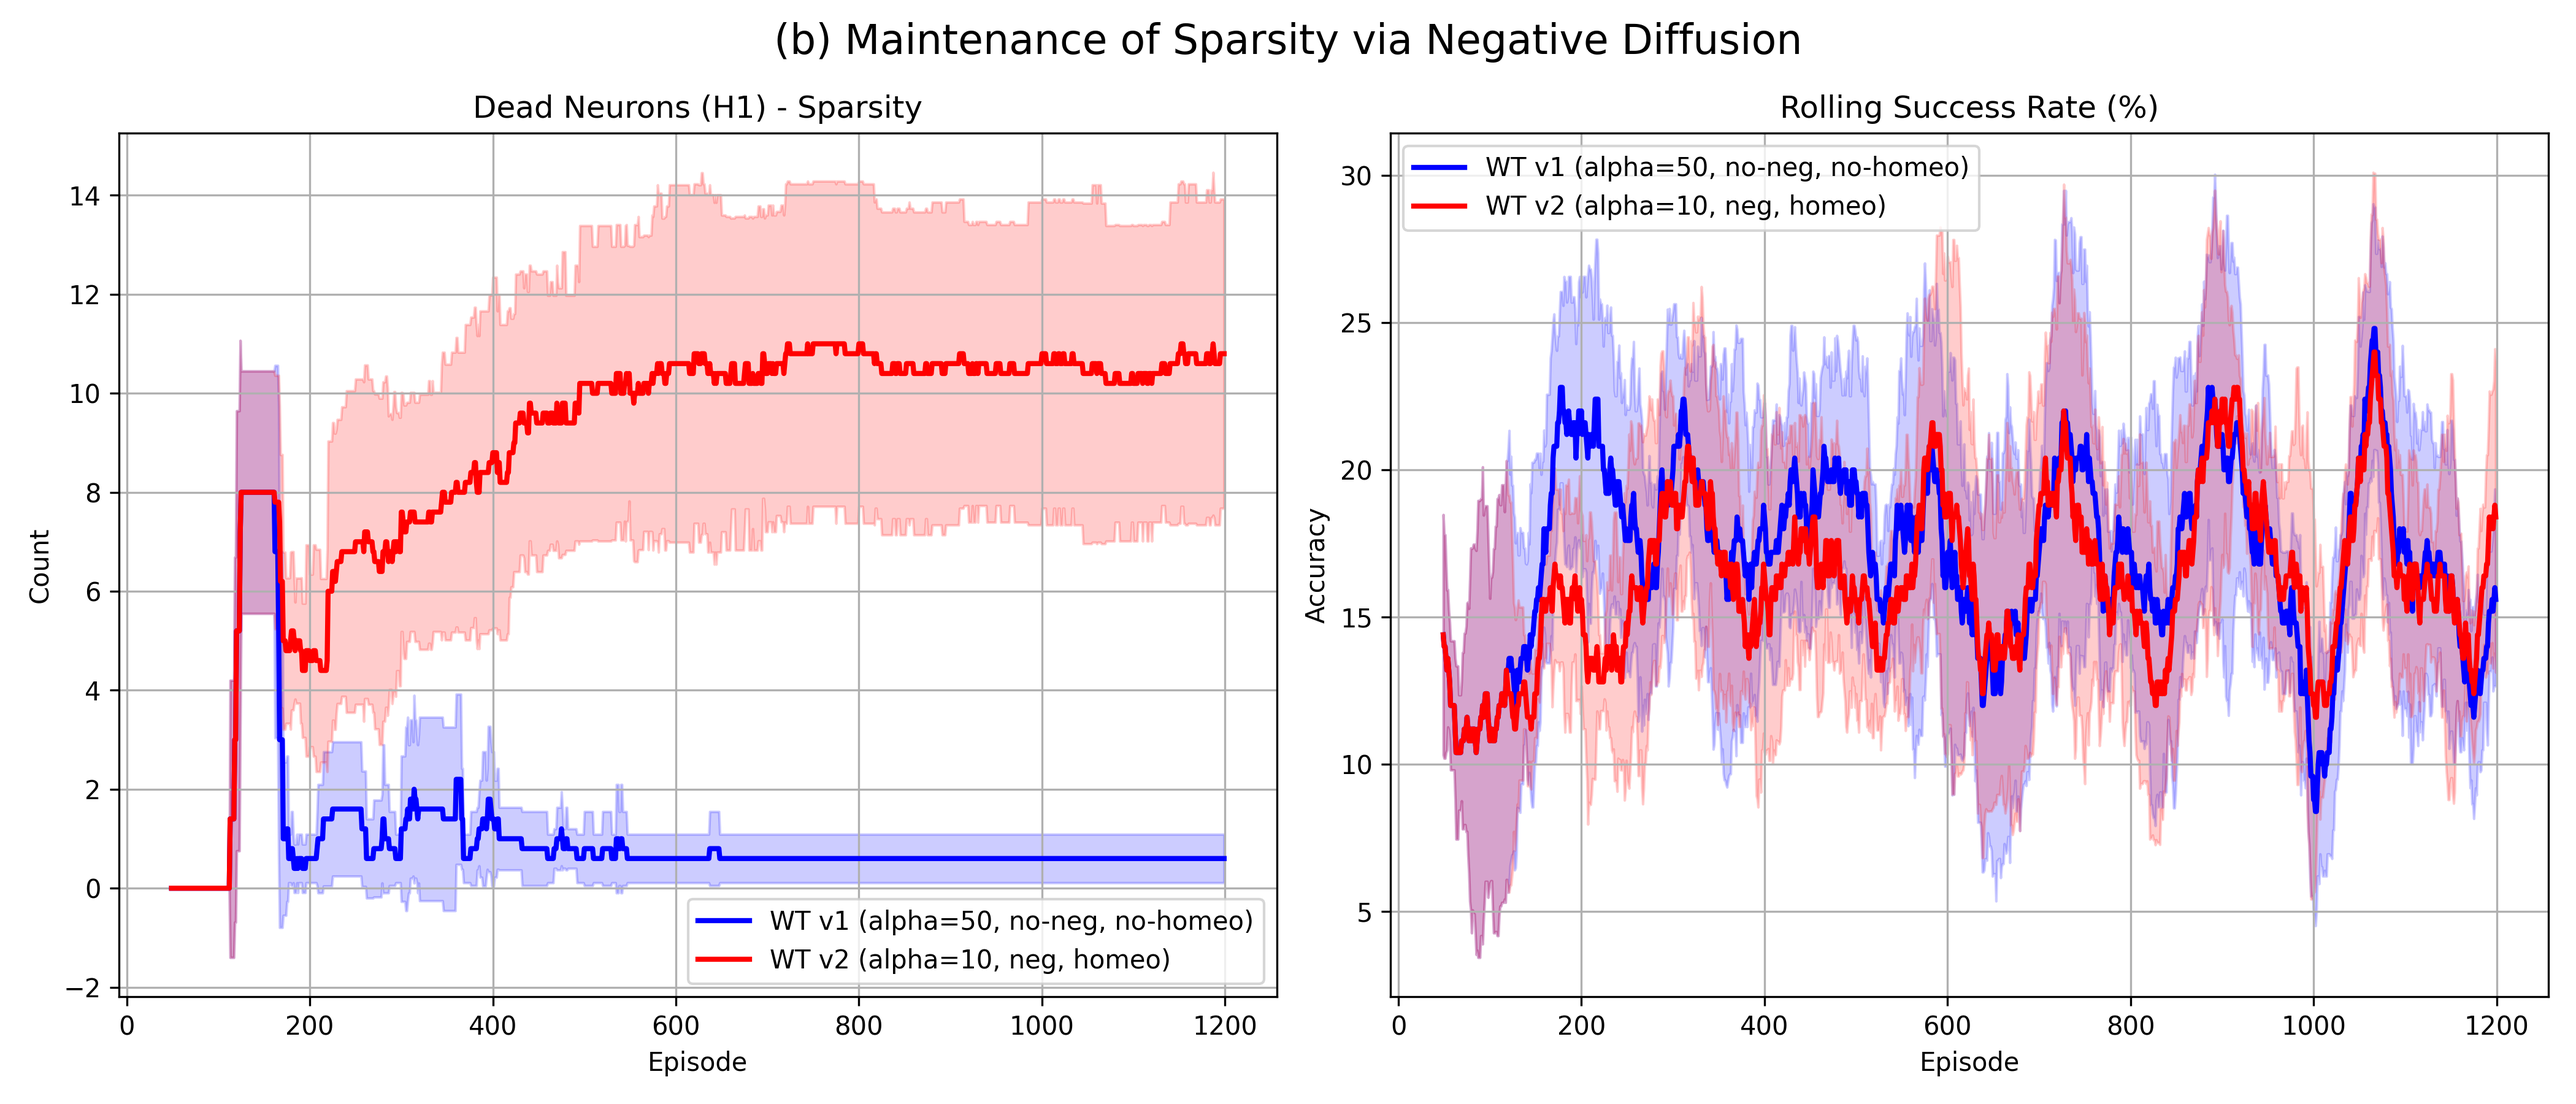
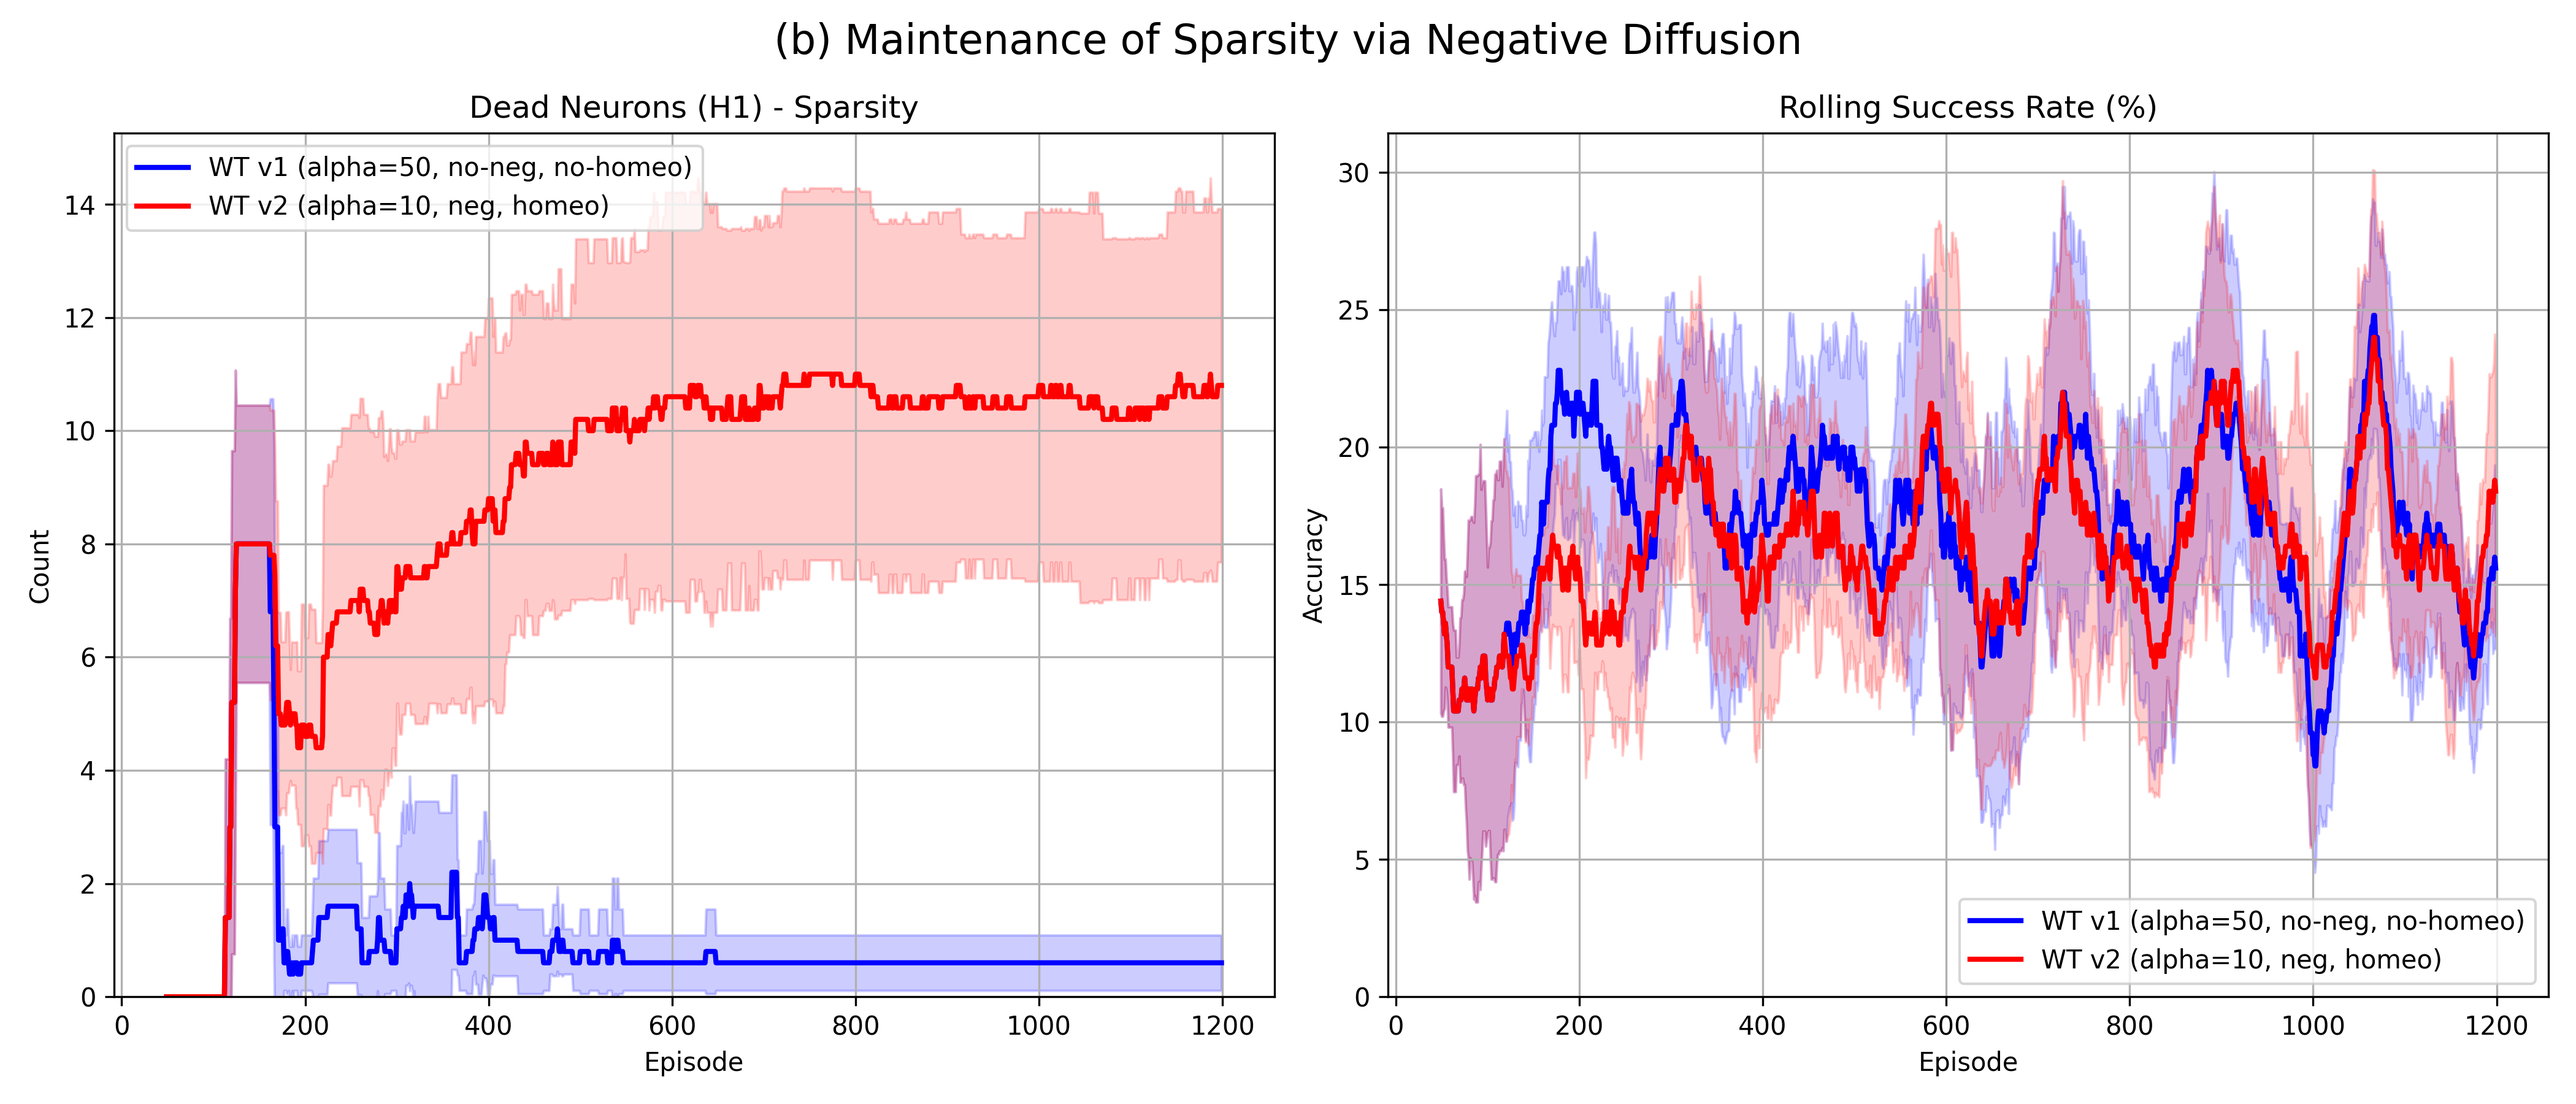
docs: fix scientific rigor, tone, figure 1 mismatch, figure 2 axes and refs

diff --git a/articles/main.tex b/articles/main.tex
@@ -88,7 +88,7 @@ $\text{Live}$ & 構造的な死を免れている（直近の平均発火率 $\g
 本研究では、このWT機構の進化として以下の2つのバージョンを比較定義する。
 \begin{itemize}
     \item \textbf{WT v1}: 負の重み波及をカットし、有効重みを $W_{ij}^{\text{eff}} = \max(0, W_{ij}^{rec})$ と定義する。また、恒常性スケーリングは行わず、適当な電位拡散（$\alpha=50.0$）によって物理的な復旧を行う。
-    \item \textbf{WT v2}: 再帰結合の負の重みをそのまま許容し、有効重みを $W_{ij}^{\text{eff}} = W_{ij}^{rec}$ として「ネガティブ拡散（抑制的波及）」を導入する。固有の抑制係数は持たず、負のシナプス荷重が直接抑制として働く。さらに、パラメータ選定の結果としてネガティブ拡散ありの場合の適切な拡散強度（$\alpha=10.0$）を設定し、無活動ニューロンに対する恒常性スケーリングを併用する。
+    \item \textbf{WT v2}: 再帰結合の負の重みをそのまま許容し、有効重みを $W_{ij}^{\text{eff}} = W_{ij}^{rec}$ として「ネガティブ拡散（抑制的波及）」を導入する。固有の抑制係数は持たず、負のシナプス荷重が直接抑制として働く。さらに、事前のグリッドサーチ結果に基づき、ネガティブ拡散を有効化した際に最も安定した学習を示す適切な拡散強度（$\alpha=10.0$）を設定し、無活動ニューロンに対する恒常性スケーリングを併用する。
 \end{itemize}
 
 WT v2における恒常性スケーリング（Homeostatic Scaling）は、閾値の低下や重みの底上げではなく、無活動ニューロン $i \in \text{Dead}$ に入力される外部電流 $I_{ext,i}$ に対して直接ゲイン $\gamma$ を掛ける「入力電流スケーリング」として実装されている。
@@ -128,23 +128,23 @@ WT v2 & $\alpha$ (Diffusion Strength) & 10.0 \\
 \end{tabular}
 \end{table}
 
-\section{Hypothesis Validation: 6-Arm Star Mazeを巡る旅}
+\section{Experiments and Results: 6-Arm Star Mazeにおける仮説検証}
 
-本研究では、ラットの空間記憶テストに用いられる古典的な「放射状迷路（Radial Arm Maze）」~\cite{olton1976spatial}を生物学的モチーフとした、6方向対称メイズ（6-Arm Star Maze / Hexable-Maze）環境において仮説検証を行う。深層学習モデルがこのような逐次的タスクにおいて深刻な破滅的忘却~\cite{mccloskey1989catastrophic}に直面するのに対し、生体の海馬メカニズムにヒントを得たWT機構が、生涯学習においてどのように構造的リソースを管理し、アトラクターの呪縛を回避するのかを評価する。
+本研究では、ラットの空間記憶テストに用いられる古典的な「放射状迷路（Radial Arm Maze）」~\cite{olton1976spatial}を生物学的モチーフとした、6方向対称メイズ（6-Arm Star Maze / Hexable-Maze）環境において仮説検証を行う。本タスクにおいて、エージェントは各ステップで環境内の空間座標情報を観測し、離散的な行動空間から行動を選択して移動する。あらかじめ設定されたゴール地点に到達すると正の報酬が与えられ、エピソードが終了する。深層学習モデルがこのような逐次的タスクにおいて深刻な破滅的忘却~\cite{mccloskey1989catastrophic}に直面するのに対し、生体の海馬メカニズムにヒントを得たWT機構が、生涯学習においてどのように構造的リソースを管理し、アトラクターの呪縛を回避するのかを評価する。
 
-\subsection{Stage 1: モノカルチャーの形成 (Phase 1-2)}
-エージェントを少数の特定のゴールにのみ執着させることで、意図的に「ニューロンリソースの死」を作り出した。図1に示す重みのヒートマップは、ネットワークが単一の経路に過剰適応し、他の可能性を司るニューロン群が完全に排除された「モノカルチャー」状態を示している。
+\subsection{Phase 1-2: モノカルチャーの形成}
+学習の初期段階（Phase 1/2）において、エージェントに対して全6方向のゴールのうち少数の特定のゴール（例えばゴール1および2）に到達した場合のみに報酬を与え、特定経路に集中的に学習させるプロトコルを採用した。これにより、意図的に「ニューロンリソースの無活動化（特定の役割を持たないニューロンの死）」を作り出した。図\ref{fig:fig1}に示す各ゴール条件における各ニューロンの発火率ヒートマップは、ネットワークが単一の経路に過剰適応し、他の可能性を司るニューロン群が完全に排除された「モノカルチャー」状態を示している。
 
 \begin{figure}[H]
     \centering
     \includegraphics[width=0.7\linewidth]{fig1}
-    \caption{Phase 1/2における重みの可視化。特定の経路への過剰な専門化が見られる。}
+    \caption{Phase 1/2における発火率の可視化。特定の経路への過剰な専門化が見られる。}
     \label{fig:fig1}
 \end{figure}
 
-\subsection{Stage 2: 構造的復旧のパラドックス (Baseline vs WT v1)}
-タスク環境が拡張されると、対照群（Baseline / WTなし）のネットワークは新しいタスクに対応するリソースを捻出できず、図2(a)の黒線が示すように破滅的忘却~\cite{mccloskey1989catastrophic}とニューロン資源の枯渇に陥った。
-これに対し、とにかく強力に電位を流し込んで死ニューロンを叩き起こす手法（WT v1）を適用したところ、青線が示すように無活動化していたニューロンをほぼ全数（0個まで）物理的に再活性化させることに成功した。
+\subsection{Phase 3: 構造的復旧のパラドックス (Baseline vs WT v1)}
+Phase 3において、報酬が配置されるゴール条件が全6方向に拡張されると、対照群（Baseline / WTなし）のネットワークは新しいタスクに対応するリソースを捻出できず、図\ref{fig:comparison_structural}(a)右の黒線が示すように破滅的忘却~\cite{mccloskey1989catastrophic}とニューロン資源の枯渇（図\ref{fig:comparison_structural}(a)左）に陥った。
+これに対し、過剰な電位エネルギーによって無活動ニューロンを強制的に再活性化させる手法（WT v1）を適用したところ、図\ref{fig:comparison_structural}(a)左の青線が示すように無活動ニューロンをほぼ全数（0個まで）物理的に再活性化させることに成功した。
 
 しかし、構造的な死（Dead Neurons）を完全にゼロにしたにもかかわらず、機能的パフォーマンス（正答率）は伸び悩みを見せた。WT v1は構造的復旧を達成した一方で、機能的再統合には失敗したのである。
 
@@ -154,14 +154,14 @@ WT v2 & $\alpha$ (Diffusion Strength) & 10.0 \\
     \vspace{0.3cm}
 
     \includegraphics[width=0.7\linewidth]{fig6}
-    \caption{上(a): Baseline(黒)における資源的枯渇とWT v1(青)による構造的完全復旧。下(b): WT v1(青)とWT v2(赤)によるスパース性維持と正答率の比較。}
+    \caption{上段(a): Baseline(黒)における資源的枯渇とWT v1(青)による構造的完全復旧（左: 無活動ニューロン数、右: 移動平均正答率）。下段(b): WT v1(青)とWT v2(赤)によるスパース性維持と正答率の比較（左: 無活動ニューロン数、右: 移動平均正答率）。}
     \label{fig:comparison_structural}
 \end{figure}
 
-\subsection{Stage 3: スパース性の維持と機能的等価性（WT v1 vs WT v2）}
-WT v1を用いた場合、初期タスクの学習で深く形成された「WTAアトラクター盆地」の引力により、全てのニューロンを均等に強制復活させてもネットワーク内に過剰なノイズが発生し、機能的パフォーマンスは伸び悩んだ。
+\subsection{Phase 3 (Cont.): スパース性の維持と機能的等価性（WT v1 vs WT v2）}
+WT v1を用いた場合、初期タスクの学習で深く形成された「WTAアトラクター盆地」の引力により、すべての無活動ニューロンを均等に強制復活させてもネットワーク内に過剰なノイズが発生し、機能的パフォーマンスは伸び悩んだ。
 
-そこで提案するWT v2では、再帰結合の負の重みを通じた「ネガティブ拡散」を許容し、局所的な抑制波及を取り入れた。その結果、図2(b)の赤線が示すように、あえて一部のニューロン（H1層において10〜15個程度）を死なせたまま「スパース性」を維持することが可能となった。
+そこで提案するWT v2では、再帰結合の負の重みを通じた「ネガティブ拡散」を許容し、局所的な抑制波及を取り入れた。その結果、図\ref{fig:comparison_structural}(b)左の赤線が示すように、あえて一部のニューロン（H1層において10〜15個程度）を無活動状態にさせたまま「スパース性」を維持することが可能となった。
 特筆すべきは、機能的パフォーマンスの統計的比較結果である。表\ref{tab:performance}に示す通り、対照群（Baseline）は正答率が壊滅的に低下しているのに対し、WT機構を導入したモデル（WT v2）は全エピソード平均（$p < 0.001$）および最終100エピソード平均（$p < 0.01$）のいずれにおいてもBaselineとの比較で有意に高いパフォーマンスを維持している。また、複数シード（N=5）において、WT v1とWT v2の間には有意差が認められなかった（$p > 0.05$）。
 
 \begin{table}[htbp]
@@ -180,12 +180,12 @@ WT v1を用いた場合、初期タスクの学習で深く形成された「WTA
 
 \section{Discussion: 構造回復と機能の解離が示すメタ可塑性}
 本研究で見出された「構造的復旧と機能的再統合の解離」というパラドックスは、ニューロンリソースの完全な復旧が必ずしも最適な学習状態ではないことを示している。
-生涯学習（Lifelong Learning）において、過去のアトラクターからの呪縛を解き放つためには、全員を復活させるのではなく、ネガティブ拡散によってあえて活動を制限し、新しいネットワーク構造に「適度な余白（スパース性）」を残すことが、極めて重要な「メタ可塑性」のメカニズムである。
+生涯学習（Lifelong Learning）において、過去のアトラクターからの呪縛を解き放つためには、すべてのニューロンを一律に復旧させるのではなく、ネガティブ拡散によってあえて活動を制限し、新しいネットワーク構造に「適度な余白（スパース性）」を残すことが、極めて重要な「メタ可塑性」のメカニズムである。
 
-なお、本実験で提案したWT v2は、「ネガティブ拡散（$\alpha=10.0$）」と「入力電流スケーリング（$\gamma=5.0$）」という2つの仕組みを同時に導入している。スパース性の維持と機能的等価性が、抑制的波及によるものなのか、電流スケーリングによる直接的なタスク文脈の強調によるものなのかを厳密に切り分けるためには、今後の研究におけるアブレーション実験（要因分離）が必要である。しかしながら、これらが複合して生体のメタ可塑性に近い効率的なリソース管理を実現していることは、本実験の結果からも明らかである。
+なお、本実験で提案したWT v2は、「$\alpha$の引き下げ（50.0 $\rightarrow$ 10.0）」「ネガティブ拡散の導入」「入力電流スケーリング（$\gamma=5.0$）の導入」という3つの変更を同時に導入している。スパース性の維持と機能的等価性が、これらのうちどの要因（あるいはその相互作用）によるものなのかを厳密に切り分けるためには、今後の研究における変数の要因分離（Ablation Study）が不可欠である。しかしながら、これらが複合して生体のメタ可塑性に近い効率的なリソース管理を実現していることは、本実験の結果からも明らかである。
 
 \section{Conclusion}
-本研究では、WTA競争を伴うSNNの無活動ニューロン問題に対し、ネガティブ拡散を含む局所再帰的な電位拡散モデル（WT v2）を提案し、6-Arm Star Maze環境~\cite{tolman1946spatial,olton1976spatial}においてその有効性を実証した。「死ニューロンをすべて復活させる」のではなく、「ネガティブ拡散によって適度なスパース性を保ちながら一部を復旧させる」ことが、生涯学習~\cite{parisi2019continual}におけるアトラクターの緩和制御に不可欠であるという新しい計算論的知見を示した。
+本研究では、WTA競争を伴うSNNの無活動ニューロン問題に対し、ネガティブ拡散を含む局所再帰的な電位拡散モデル（WT v2）を提案し、6-Arm Star Maze環境~\cite{tolman1946spatial,olton1976spatial}においてその有効性を実証した。「無活動ニューロンをすべて復旧させる」のではなく、「ネガティブ拡散によって適度なスパース性を保ちながら一部を復旧させる」ことが、生涯学習~\cite{parisi2019continual}におけるアトラクターの緩和制御に不可欠であるという新しい計算論的知見を示した。
 
 \bibliographystyle{plain}
 \bibliography{references}

diff --git a/plot_paper_multiseed.py b/plot_paper_multiseed.py
@@ -60,6 +60,8 @@ def main():
         plot_mean_std(axes2[0], ep_old, dead_old, "blue", "WT v1 (alpha=50, no-neg, no-homeo)")
         plot_mean_std(axes2[1], ep_old, acc_old, "blue", "WT v1 (alpha=50, no-neg, no-homeo)")
         
+    axes2[0].set_ylim(bottom=0)
+    axes2[1].set_ylim(bottom=0)
     axes2[0].set_title("Dead Neurons (H1)")
     axes2[0].set_xlabel("Episode"); axes2[0].set_ylabel("Count")
     axes2[0].legend(); axes2[0].grid(True)
@@ -84,6 +86,8 @@ def main():
         plot_mean_std(axes6[0], ep_new, dead_new, "red", "WT v2 (alpha=10, neg, homeo)")
         plot_mean_std(axes6[1], ep_new, acc_new, "red", "WT v2 (alpha=10, neg, homeo)")
         
+    axes6[0].set_ylim(bottom=0)
+    axes6[1].set_ylim(bottom=0)
     axes6[0].set_title("Dead Neurons (H1) - Sparsity")
     axes6[0].set_xlabel("Episode"); axes6[0].set_ylabel("Count")
     axes6[0].legend(); axes6[0].grid(True)
